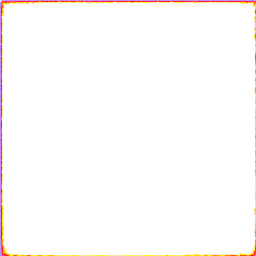
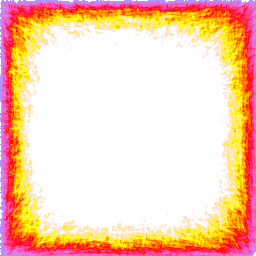
less lines

diff --git a/heatmap_test.go b/heatmap_test.go
@@ -33,7 +33,7 @@ func TestHeatmap(t *testing.T) {
 	var bbox = geo.BBox{N: 36., S: 34, W: 10., E: 12.}
 	var polylines = make([]string, 0)
 
-	for i := 0; i < 1000; i++ {
+	for i := 0; i < 100; i++ {
 		var points = make([][]float64, 0)
 		for p := 0; p < 200; p++ {
 			var point = []float64{
